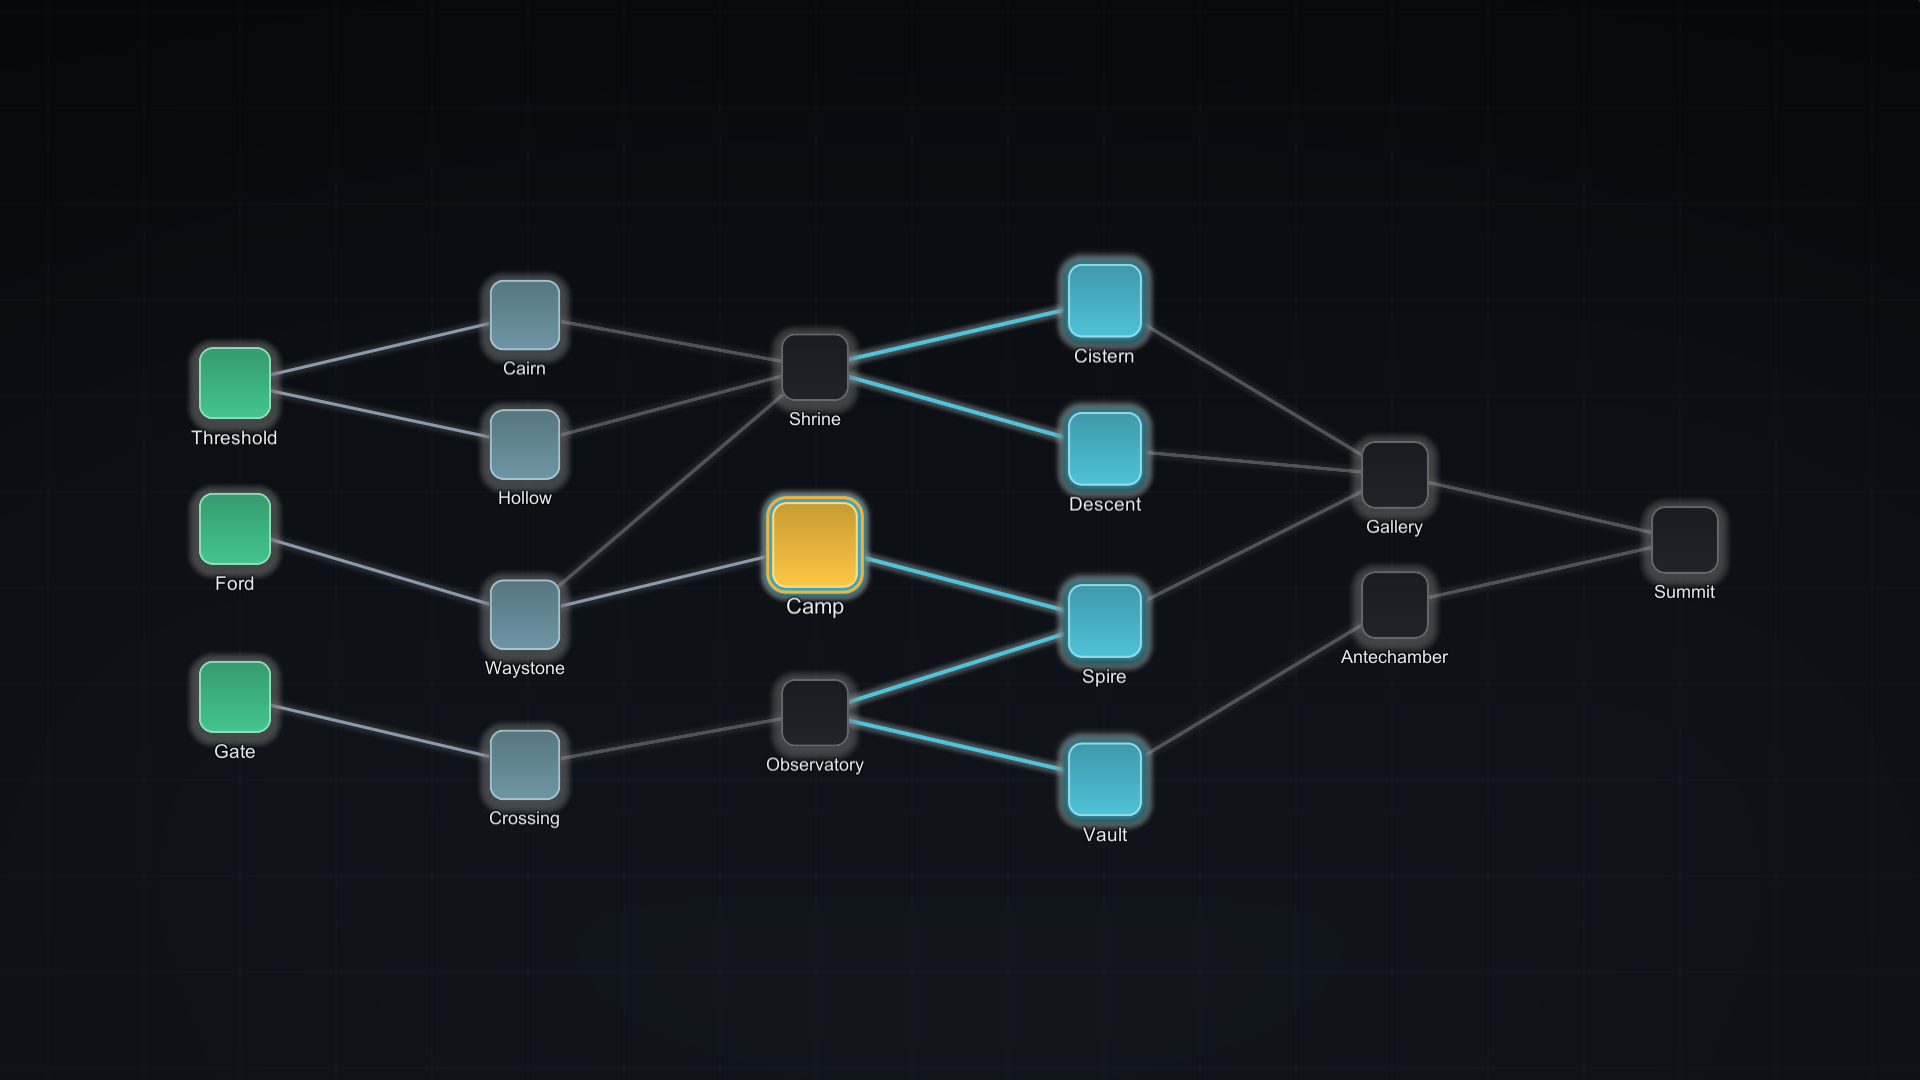
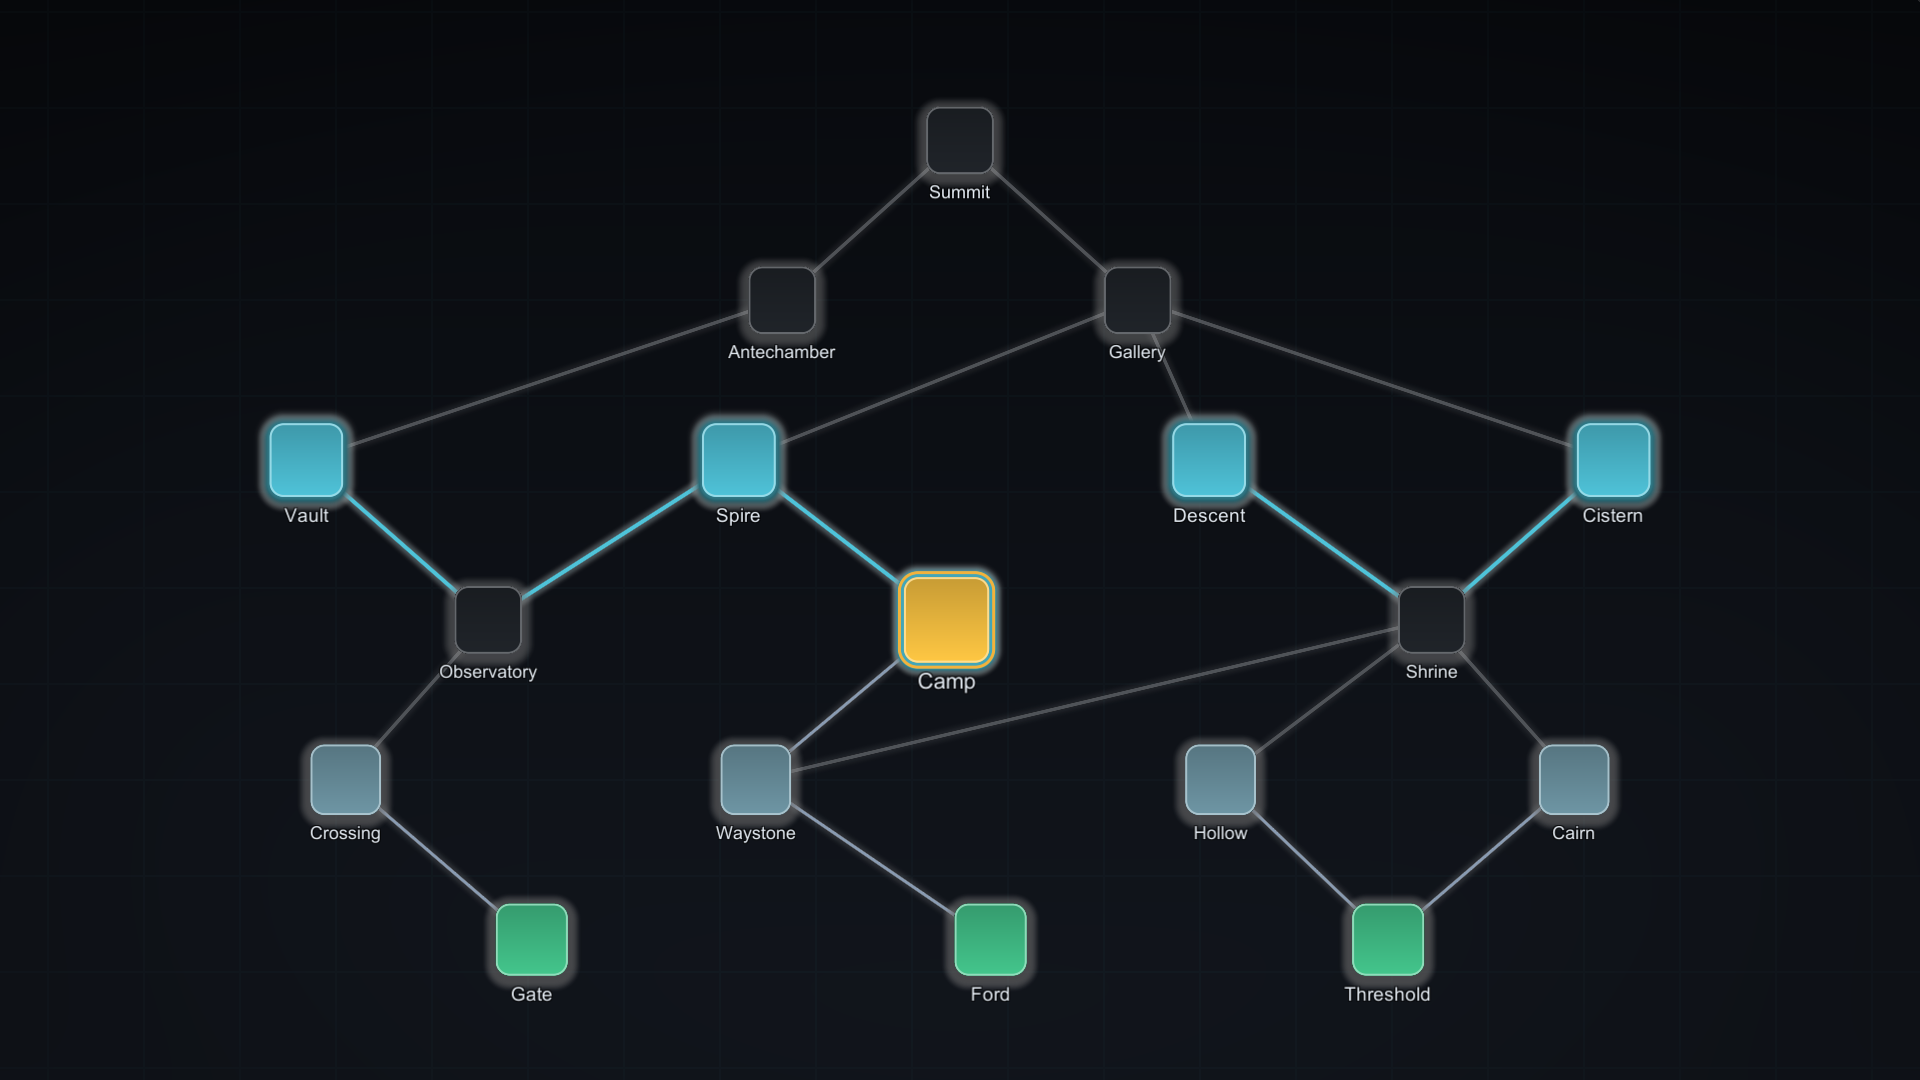
docs: show all four flow directions, verified by capture
Adds one capture per MapFlowDirection to the styling tutorial. Same map, same
style, same seed; only the direction token differs, so the comparison shows
exactly what the setting does.

These are not illustrations. The capture harness now positions nodes through the
shipped MapFramingTokens.Orient transform rather than computing positions itself,
so the shots verify the product code path rather than a layout the harness
invented.

diff --git a/docs/tutorials/styling-your-map.md b/docs/tutorials/styling-your-map.md
@@ -139,7 +139,32 @@ Margins are fractions, so one style works across resolutions.
 
 #### Which way the map runs
 
-`FlowDirection` gives all four:
+`FlowDirection` gives all four. The same map, the same style, the same seed &mdash; only
+the direction token differs. Green nodes are the start, `Summit` is the single boss:
+
+<div class="grid-2" markdown>
+
+<figure markdown>
+  ![Bottom to top](../assets/images/direction-bottom-to-top.png){ .shot }
+  <figcaption><code>BottomToTop</code> &mdash; climbing. The default.</figcaption>
+</figure>
+
+<figure markdown>
+  ![Top to bottom](../assets/images/direction-top-to-bottom.png){ .shot }
+  <figcaption><code>TopToBottom</code> &mdash; a descent.</figcaption>
+</figure>
+
+<figure markdown>
+  ![Left to right](../assets/images/direction-left-to-right.png){ .shot }
+  <figcaption><code>LeftToRight</code> &mdash; a journey across.</figcaption>
+</figure>
+
+<figure markdown>
+  ![Right to left](../assets/images/direction-right-to-left.png){ .shot }
+  <figcaption><code>RightToLeft</code> &mdash; right-to-left reading order.</figcaption>
+</figure>
+
+</div>
 
 | Direction | Reads as |
 | --- | --- |
@@ -147,6 +172,11 @@ Margins are fractions, so one style works across resolutions.
 | `TopToBottom` | Descending. |
 | `LeftToRight` | A journey across, western reading order. |
 | `RightToLeft` | A journey across, right-to-left reading order. |
+
+```csharp
+var framing = style.Framing;
+framing.FlowDirection = MapFlowDirection.TopToBottom;
+```
 
 The **theme** picks which axis layers advance along; the **style** picks which way along
 it. Direction is applied when normalized positions are converted for display, so it is
